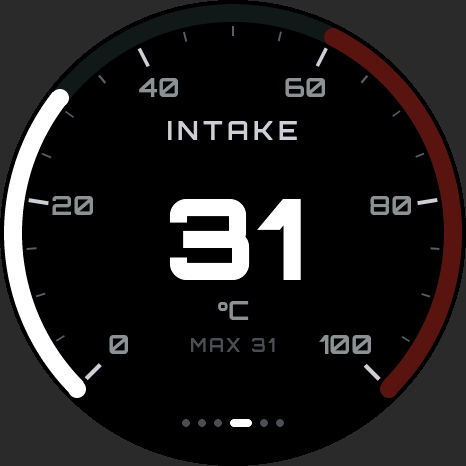
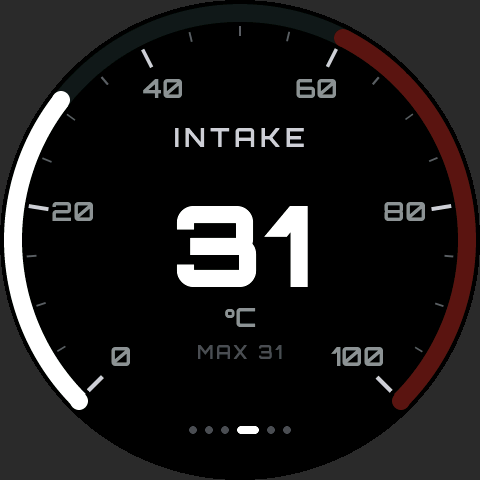
round gauge: lay out from the centre, default to the Waveshare 2.1in (480)
The 2.1in Waveshare board is the target now; the 1.32in AMOLED still
builds with RND_SIZE=466.

Claude-Session: https://claude.ai/code/session_018SKN4tJhAPpVCWtvRZgZpD

diff --git a/dash/notstock-round/main/ui_round.c b/dash/notstock-round/main/ui_round.c
@@ -32,7 +32,7 @@ LV_FONT_DECLARE(rnd_18);
 
 #define CX       (RND_W / 2)
 #define RING_W   18          /* value arc width */
-#define TICK_D   414         /* diameter of the tick meter */
+#define TICK_D   (RND_W - 52) /* diameter of the tick meter */
 #define SWEEP    270
 #define ROT      135         /* scale starts bottom left */
 
@@ -204,13 +204,13 @@ void ui_round_create(void)
     lv_obj_set_size(center, RND_W, RND_H);
     lv_obj_clear_flag(center, LV_OBJ_FLAG_CLICKABLE | LV_OBJ_FLAG_SCROLLABLE);
 
-    title_lbl = label(center, &rnd_26, C_TITLE, 118);
+    title_lbl = label(center, &rnd_26, C_TITLE, CX - 115);
     lv_obj_set_style_text_letter_space(title_lbl, 4, 0);
     val_lbl = label(center, &rnd_112, C_W, 0);
-    unit_lbl = label(center, &rnd_26, C_GREY, 298);
-    peak_lbl = label(center, &rnd_18, C_DIM, 336);
+    unit_lbl = label(center, &rnd_26, C_GREY, CX + 65);
+    peak_lbl = label(center, &rnd_18, C_DIM, CX + 103);
     lv_obj_set_style_text_letter_space(peak_lbl, 2, 0);
-    note_lbl = label(scr, &rnd_18, C_DIM, 372);
+    note_lbl = label(scr, &rnd_18, C_DIM, CX + 139);
 
     for (int i = 0; i < RND_COUNT; i++) {
         dot[i] = lv_obj_create(scr);
@@ -224,7 +224,7 @@ void ui_round_create(void)
     lv_obj_t *row = lv_obj_create(scr);
     lv_obj_remove_style_all(row);
     lv_obj_set_size(row, 200, 10);
-    lv_obj_align(row, LV_ALIGN_TOP_MID, 0, 418);
+    lv_obj_align(row, LV_ALIGN_TOP_MID, 0, CX + 185);
     lv_obj_set_flex_flow(row, LV_FLEX_FLOW_ROW);
     lv_obj_set_flex_align(row, LV_FLEX_ALIGN_CENTER, LV_FLEX_ALIGN_CENTER,
                           LV_FLEX_ALIGN_CENTER);

diff --git a/dash/notstock-round/main/ui_round.h b/dash/notstock-round/main/ui_round.h
@@ -1,12 +1,19 @@
-/* Round gauge UI: one value at a time on a 466 x 466 round AMOLED, swipe
- * left / right for the next one. ESP-free, so tools/sim renders it on a PC.
+/* Round gauge UI: one value at a time on a round panel, swipe left / right
+ * for the next one. ESP-free, so tools/sim renders it on a PC.
+ *
+ * Panel size: 480 for the Waveshare ESP32-S3-Touch-LCD-2.1 (default), 466
+ * for a 1.32" AMOLED (-DRND_SIZE=466). Everything is laid out from the
+ * centre, so either works.
  */
 #pragma once
 #include <stdbool.h>
 #include "lvgl.h"
 
-#define RND_W 466
-#define RND_H 466
+#ifndef RND_SIZE
+#define RND_SIZE 480
+#endif
+#define RND_W RND_SIZE
+#define RND_H RND_SIZE
 
 enum { RND_WATER, RND_OIL, RND_BOOST, RND_INTAKE, RND_EXHAUST, RND_RPM,
        RND_COUNT };

diff --git a/dash/notstock-round/tools/preview.py b/dash/notstock-round/tools/preview.py
@@ -47,9 +47,10 @@ def main():
         print(render("custom", " ".join(sys.argv[1:])))
         return
     pngs = [render(n, a) for n, a in SCENES.items()]
-    sheet = Image.new("RGB", (466 * 3, 466 * 3), (42, 42, 42))
+    n = Image.open(pngs[0]).size[0]
+    sheet = Image.new("RGB", (n * 3, n * 3), (42, 42, 42))
     for i, p in enumerate(pngs):
-        sheet.paste(Image.open(p), ((i % 3) * 466, (i // 3) * 466))
+        sheet.paste(Image.open(p), ((i % 3) * n, (i // 3) * n))
     sheet.save(os.path.join(OUT, "sheet.png"))
     print("preview/*.png, preview/sheet.png")
 

diff --git a/dash/notstock-round/README.md b/dash/notstock-round/README.md
@@ -1,14 +1,18 @@
 # NOT STOCK round gauge
 
-One value at a time on a 1.32" round AMOLED (466 x 466, QSPI, ESP32-S3),
-swipe left / right for the next: water, oil, boost, intake, exhaust, engine
+One value at a time on a round display, swipe left / right for the next: water, oil, boost, intake, exhaust, engine
 rpm. Data comes over CAN the same way as on the 7" dash
 (`../notstock-dash-7inch`: rusEFI broadcast, or OBD-II plus the VW UDS
 measuring values on a T5.1), through an SN65HVD230 board on two free GPIOs.
 
+Target board: **Waveshare ESP32-S3-Touch-LCD-2.1** (480 x 480, ST7701 on
+RGB like the 7" dash, CST820 touch). The UI is laid out from the centre and
+also builds for a 1.32" AMOLED at 466 x 466 (`-DRND_SIZE=466`, sim
+`make SIZE=466`).
+
 **State: UI mock-up only.** `main/ui_round.c` is real LVGL 8.4 code and runs
-in the PC simulator; the panel driver, touch and CAN come once the board is
-on the bench (its exact driver ICs and free pins are not known yet).
+in the PC simulator; panel, touch and CAN drivers come once the board is on
+the bench.
 
 ![sheet](preview/sheet.png)
 
